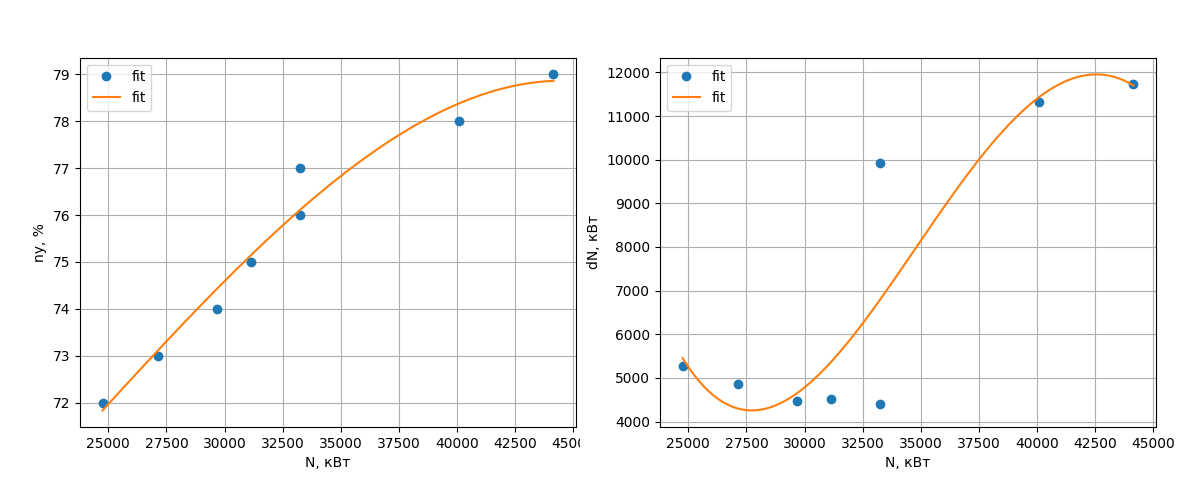
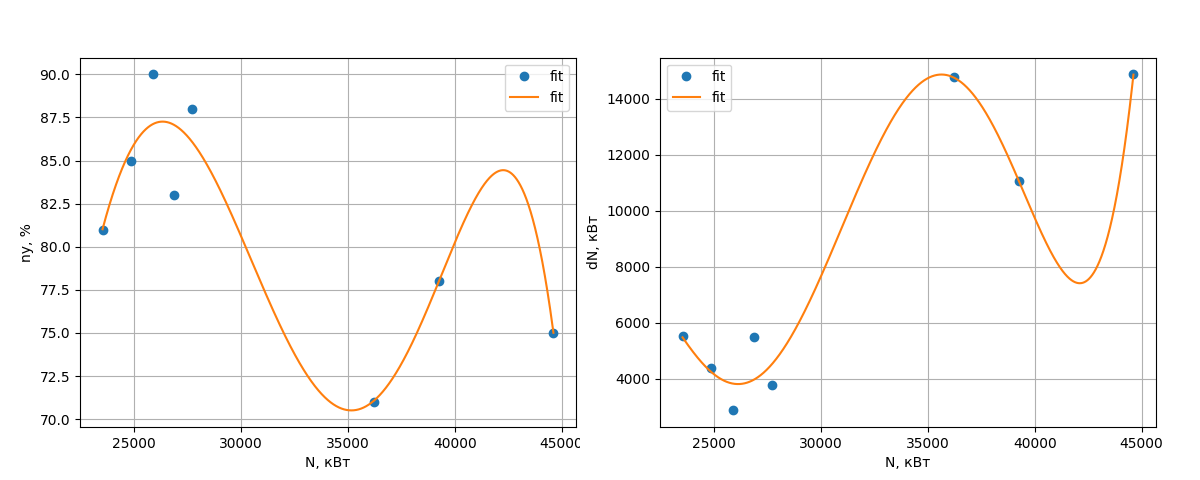
Initial Commit

diff --git a/test1.py b/test1.py
@@ -56,7 +56,7 @@ class interface:
         self.l1.grid(column=0, row=0, sticky='ew')
 
         # Label 2 НАПОР
-        self.l2 = tk.Label(self.f1, text="Введите напор H, м")
+        self.l2 = tk.Label(self.f1, text="Введите степень полинома")
         self.l2.grid(column=0, row=1, sticky='ew')
 
         # Label 3
@@ -72,7 +72,7 @@ class interface:
         b1.grid(column=4, row=0, sticky='ew')
 
         # Button РАСЧЕТ
-        b2 = tk.Button(self.f5, text="Рассчитать", command=self.rr)
+        b2 = tk.Button(self.f5, text="Рассчитать", command=lambda: [self.rr()])
         b2.grid(column=0, row=19, sticky='ew', columnspan=4)
 
         self.canvas2 = tk.Canvas(self.f2, height=610, width=1050,)
@@ -85,7 +85,7 @@ class interface:
         self.comboExample.grid(column=1, row=0, sticky='w')
 
         # Button НАПОР
-        b3 = tk.Button(self.f1, text="Задать напор", command=self.pressure)
+        b3 = tk.Button(self.f1, text="Задать", command=self.pressure)
         b3.grid(column=4, row=1, sticky='ew')
 
         # Table 2
@@ -193,8 +193,8 @@ class interface:
 
     def pressure(self):
         try:
-            int(self.e_H.get())
-            self.H = self.e_H.get()
+            self.H = int(self.e_H.get())
+            print(type(self.H))
         except ValueError:
             messagebox.showerror("Ошибка", "Введите численное значение")
 
@@ -221,7 +221,7 @@ class interface:
         ag_init = InitProg(data)
         dN, ny, N = ag_init.get_dN()
         if len(data['N']) > 5:
-            self.ag_aprox = Approximation(N, ny, dN)
+            self.ag_aprox = Approximation(N, ny, dN, self.H)
             N, ny, _ = self.ag_aprox.approximation()
             N = pd.Series(N)
             ny = pd.Series(ny)

diff --git a/Haracteristiki.py b/Haracteristiki.py
@@ -5,16 +5,17 @@ from PIL import Image
 
 class Approximation:
 
-    def __init__(self, N, ny, dN):
+    def __init__(self, N, ny, dN, k):
         self.N = N
         self.ny = ny
         self.dN = dN
+        self.k = k
 
 
     def approximation(self):
         self.new_N = np.arange(min(self.N), max(self.N))
-        model_N_ny = np.polyfit(self.N, self.ny, 3)
-        model_N_dN = np.polyfit(self.N, self.dN, 4)
+        model_N_ny = np.polyfit(self.N, self.ny, self.k)
+        model_N_dN = np.polyfit(self.N, self.dN, self.k)
         predict_N_ny = np.poly1d(model_N_ny)
         predict_N_dN = np.poly1d(model_N_dN)
         func1 = predict_N_ny(self.new_N)
